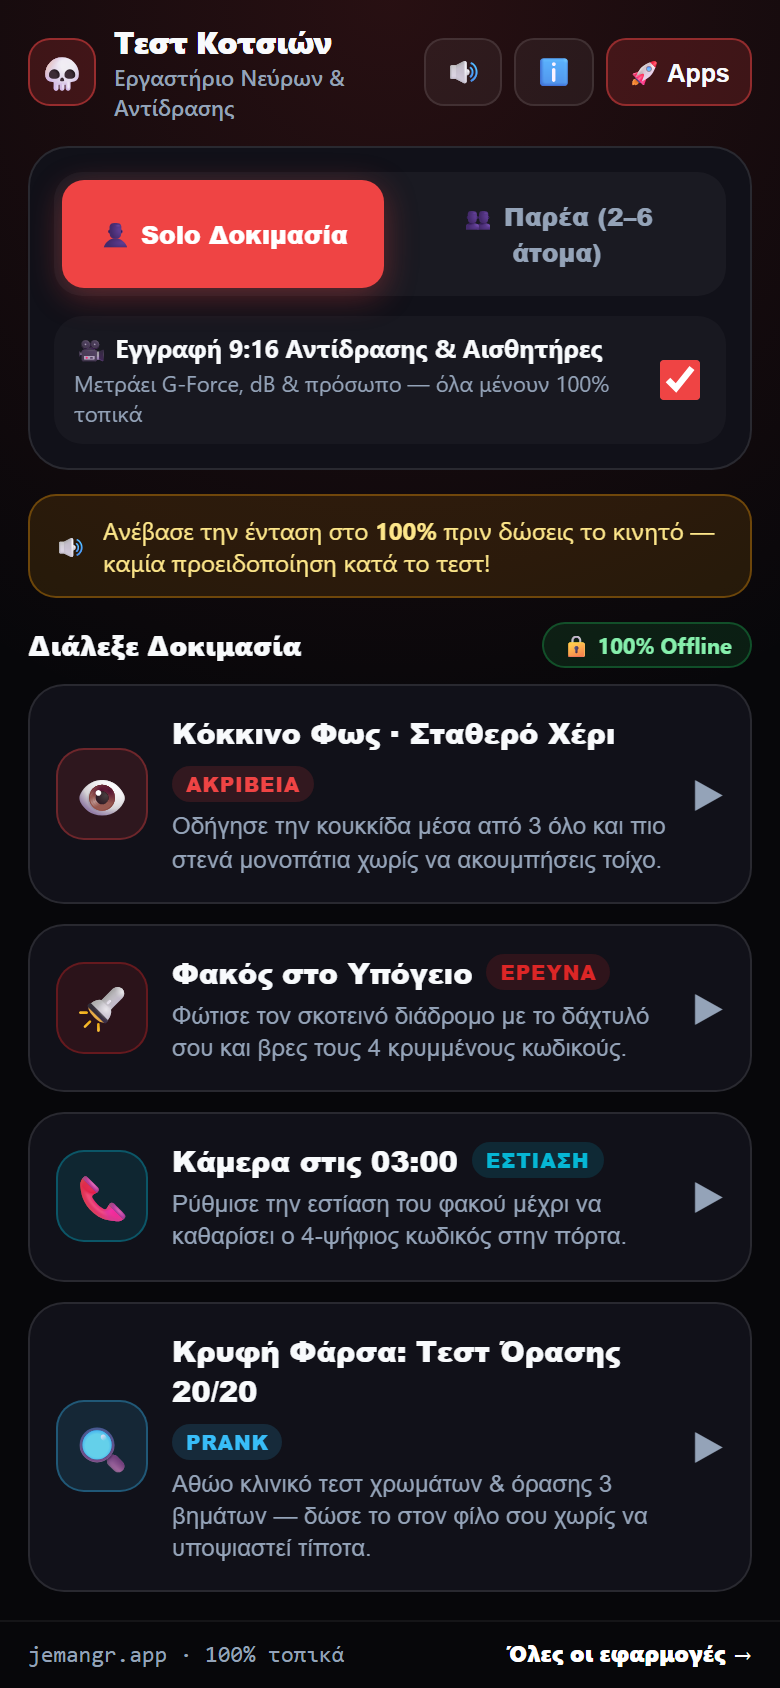
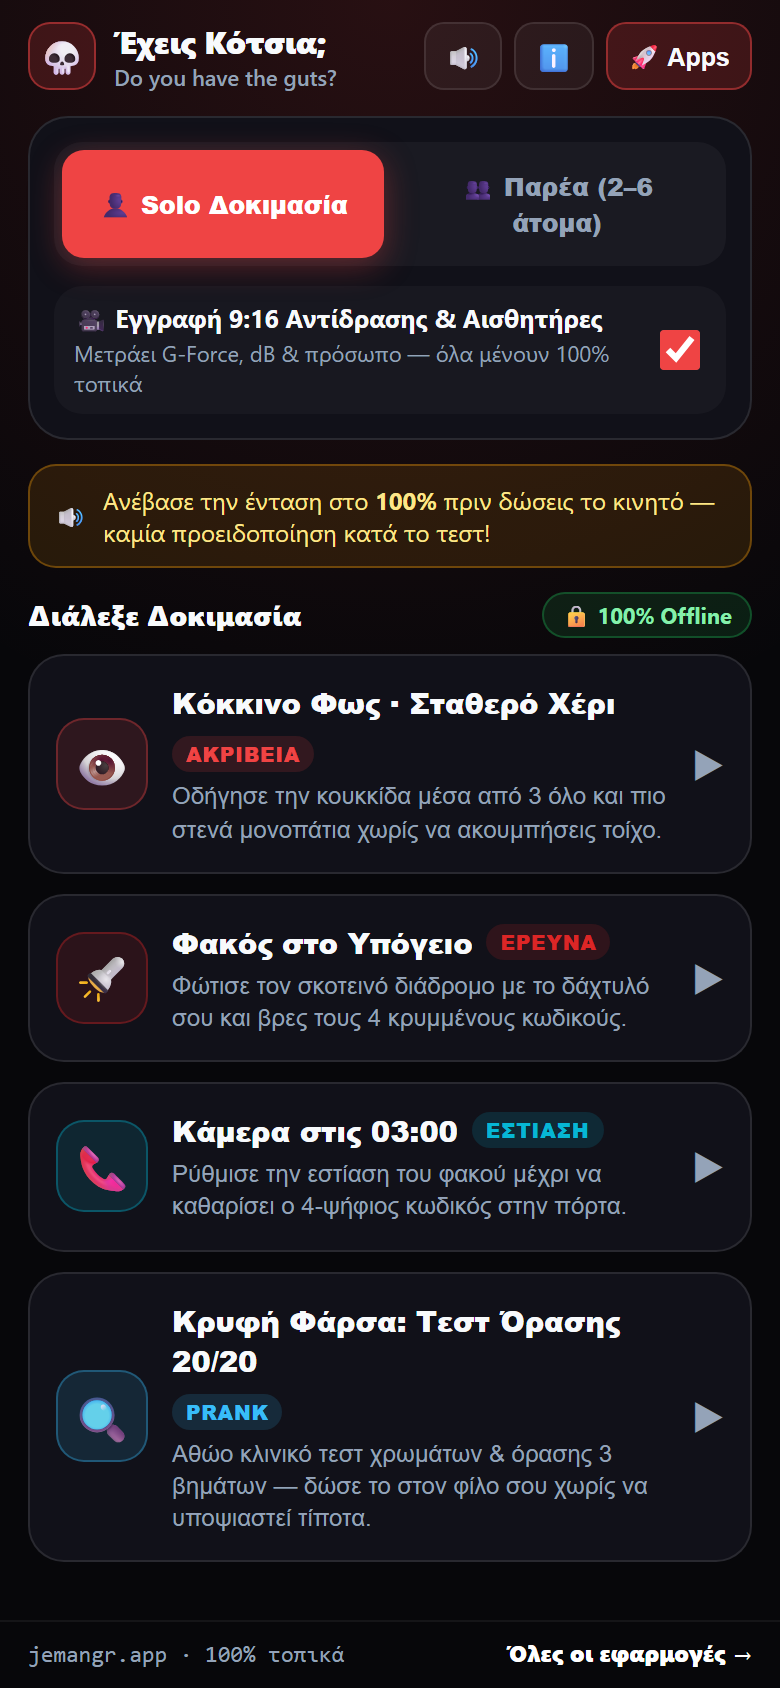
release(v1.2.1): rebrand to 'Έχεις Κότσια; — Do You Have the Guts?'

diff --git a/PRIVACY_POLICY.md b/PRIVACY_POLICY.md
@@ -1,11 +1,11 @@
-# Privacy Policy — Τεστ Κοτσιών (`test-kotsion`)
+# Privacy Policy — Έχεις Κότσια; (Do You Have the Guts?)
 
 **Effective Date:** November 20, 2026  
 **Developer:** Giannis Oikonomakis ([jemangr.app](https://jemangr.app/el/))
 
 ## 100% On-Device Sensors, Camera & Microphone
 
-**Τεστ Κοτσιών** processes all biometric signals and media strictly locally on your device.
+**Έχεις Κότσια; (Do You Have the Guts?)** (`app.jemangr.testkotsion`) processes all biometric signals and media strictly locally on your device.
 
 * **Camera & Microphone:** Used optionally during active test runs to measure decibel peaks, detect facial motion jumps, capture your peak reaction snapshot, and composite your 9:16 split-screen reaction video locally in browser/device memory. **No video, photo, or audio clip is ever uploaded to any server.**
 * **Motion Sensors:** Accelerometer and gyroscope events are analyzed locally in real time to compute hand tremor and flinch G-force.

diff --git a/CHANGELOG.md b/CHANGELOG.md
@@ -1,4 +1,7 @@
-# Changelog — Τεστ Κοτσιών (`test-kotsion`)
+# Changelog — Έχεις Κότσια; (`Do You Have the Guts?`)
+
+## v1.2.1 (2026-11-20)
+* 🏷 **Επίσημο Rebrand:** Μετονομασία της εφαρμογής σε **«Έχεις Κότσια; — Do You Have the Guts?»** (PWA, Android app label, κάρτα 9:16, split-screen watermark, GitHub showcase & Releases — διατηρώντας το σταθερό APK download `test-kotsion.apk` και το PWA path `/test-kotsion/`).
 
 ## v1.2.0 (2026-11-20)
 * 🤫 **Μηδέν Προειδοποιήσεις πριν το Jumpscare:** Κρυφό HUD (`REC`, `ΤΡΕΜ`, `dB`, `G`) & stealth κάμερα κατά τη δοκιμασία, χωρίς ηχητικό crescendo, glitches, blackouts ή spoilers — απόλυτη αντίθεση στην επίθεση.

diff --git a/README.md b/README.md
@@ -1,8 +1,8 @@
 <div align="center">
 
-<img src="./assets/icon-512.png" alt="Τεστ Κοτσιών — Icon" width="112" />
+<img src="./assets/icon-512.png" alt="Έχεις Κότσια; — Do You Have the Guts? Icon" width="112" />
 
-# 💀 Τεστ Κοτσιών *(Test Kotsion)*
+# 💀 Έχεις Κότσια; — Do You Have the Guts?
 
 **Ελληνικό Εργαστήριο Νεύρων & Αντίδρασης — Μετράει Τίναγμα (G-Force), Ουρλιαχτό (dB), Κάμερα & Βγάζει 9:16 Video για TikTok.**
 
